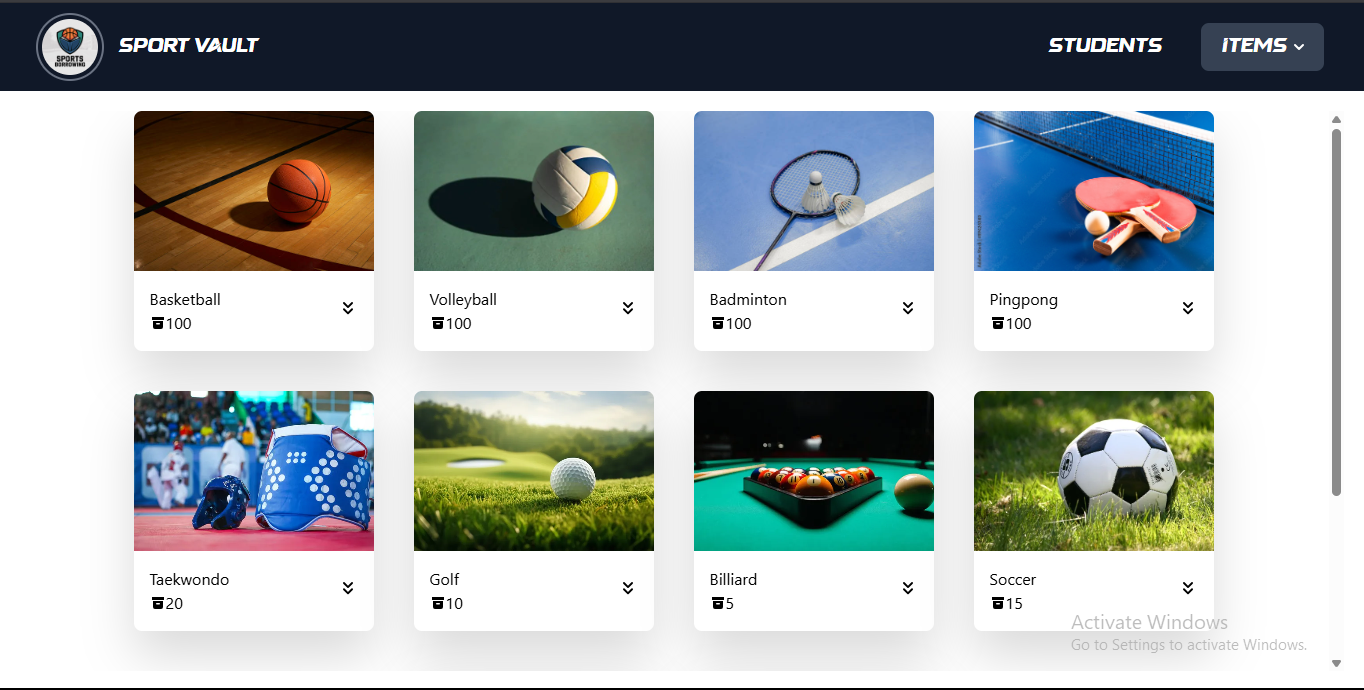
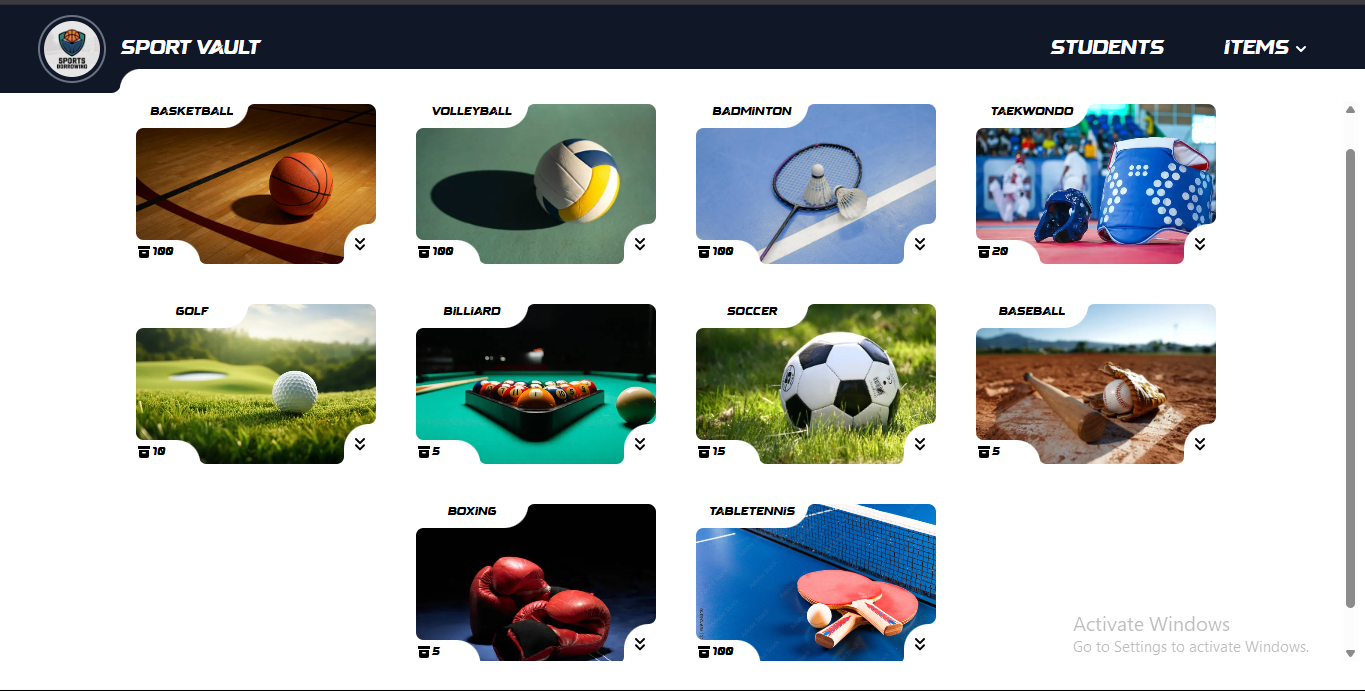
Adding Designs

diff --git a/src/components/itemPlacard.jsx b/src/components/itemPlacard.jsx
@@ -1,4 +1,6 @@
+import '../css/invertedDesign.css'
 import { useEffect, useState } from "react";
+import '../css/fonts.css'
 
 function ItemPlacard(){
     const [items, setItems] = useState([]);
@@ -24,29 +26,25 @@ function ItemPlacard(){
 
 
     return(
-        <div className="flex gap-10 flex-wrap justify-center max-h-[35rem] overflow-y-auto">
+        <div style={{ fontFamily: 'Sakana' }} className="p-10 text-xs flex gap-10 flex-wrap justify-center max-h-[35rem] overflow-y-auto">
             {items.map((item) => (
-                <div key={item} className="flex flex-col max-w-[15rem] max-h-[30rem] bg-white rounded-lg drop-shadow-2xl">
-                    <div className="h-[10rem] w-[15rem]"> 
+                <div key={item} className="transition duration-500 hover:scale-125 flex flex-col max-w-[15rem] max-h-[30rem] rounded-lg">
+                    <div className="h-[10rem] w-[15rem] relative"> 
+                        <div className="upperShape absolute w-[7rem] h-6 bg-white text-center">{item.itemname}</div>
                         <img src={`http://localhost:5000/images/${item.image}`} alt="" className="rounded-t-lg object-cover h-full w-full" />
-                    </div>
-                    <div className="p-4 flex items-center justify-between">
-                        <div>
-                            <p>{item.itemname}</p>
-                            <p className="flex items-center">
-                                <svg xmlns="http://www.w3.org/2000/svg" viewBox="0 0 16 16" fill="currentColor" className="size-4">
-                                    <path d="M3 2a1 1 0 0 0-1 1v1a1 1 0 0 0 1 1h10a1 1 0 0 0 1-1V3a1 1 0 0 0-1-1H3Z" />
-                                    <path fillRule="evenodd" d="M3 6h10v6a2 2 0 0 1-2 2H5a2 2 0 0 1-2-2V6Zm3 2.75A.75.75 0 0 1 6.75 8h2.5a.75.75 0 0 1 0 1.5h-2.5A.75.75 0 0 1 6 8.75Z" clipRule="evenodd" />
-                                </svg>
-                                {item.stocks}</p>
-                        </div>
-                        <div>
+                        <div className="lowerRightShape absolute w-[2rem] h-10 bg-white text-center right-0 bottom-0 items-center flex justify-center">
                             <button className="">
                                 <svg xmlns="http://www.w3.org/2000/svg" viewBox="0 0 16 16" fill="currentColor" className="size-5">
                                     <path fillRule="evenodd" d="M7.47 12.78a.75.75 0 0 0 1.06 0l3.25-3.25a.75.75 0 0 0-1.06-1.06L8 11.19 5.28 8.47a.75.75 0 0 0-1.06 1.06l3.25 3.25ZM4.22 4.53l3.25 3.25a.75.75 0 0 0 1.06 0l3.25-3.25a.75.75 0 0 0-1.06-1.06L8 6.19 5.28 3.47a.75.75 0 0 0-1.06 1.06Z" clipRule="evenodd" />
                                 </svg>
                             </button>
                         </div>
+                        <div className="lowerLeftShape absolute w-[4rem] h-6 bg-white text-center flex items-center bottom-0">
+                            <svg xmlns="http://www.w3.org/2000/svg" viewBox="0 0 16 16" fill="currentColor" className="size-4 z-50">
+                                <path d="M3 2a1 1 0 0 0-1 1v1a1 1 0 0 0 1 1h10a1 1 0 0 0 1-1V3a1 1 0 0 0-1-1H3Z" />
+                                <path fillRule="evenodd" d="M3 6h10v6a2 2 0 0 1-2 2H5a2 2 0 0 1-2-2V6Zm3 2.75A.75.75 0 0 1 6.75 8h2.5a.75.75 0 0 1 0 1.5h-2.5A.75.75 0 0 1 6 8.75Z" clipRule="evenodd" />
+                            </svg>
+                            {item.stocks}</div>
                     </div>
                 </div>
             ))}

diff --git a/src/css/invertedDesign.css b/src/css/invertedDesign.css
@@ -1,0 +1,89 @@
+.upperShape{
+    border-bottom-right-radius: 50px;
+}
+.upperShape::before{
+    content: "";
+    position: absolute;
+
+    background: transparent;
+    bottom: -15px;
+    height: 15px;
+    width: 15px;
+    left: 0px;
+    border-radius: 30px;
+
+    box-shadow: -8px -8px 0 0 white;
+}
+.upperShape::after{
+    content: "";
+    position: absolute;
+
+    background: transparent;
+    top: 0px;
+    height: 15px;
+    width: 15px;
+    right: -14px;
+    border-radius: 30px;
+
+    box-shadow: -8px -8px 0 0 white;
+}
+
+.lowerRightShape{
+    border-top-left-radius: 25px;
+}
+.lowerRightShape::before{
+    content: "";
+    position: absolute;
+
+    background: transparent;
+    bottom: 0px;
+    height: 15px;
+    width: 15px;
+    left: -15px;
+    border-radius: 30px;
+
+    box-shadow: 8px 8px 0 0 white;
+}
+.lowerRightShape::after{
+    content: "";
+    position: absolute;
+
+    background: transparent;
+    top: -15px;
+    height: 15px;
+    width: 15px;
+    right: 0px;
+    border-radius: 30px;
+
+    box-shadow: 7px 7px 0 0 white;
+}
+
+.lowerLeftShape{
+    border-top-right-radius: 50px;
+}
+.lowerLeftShape::before{
+    content: "";
+    position: absolute;
+
+    background: transparent;
+    top: -15px;
+    height: 15px;
+    width: 15px;
+    left: 0px;
+    border-radius: 30px;
+
+    box-shadow: -8px 8px 0 0 white;
+}
+.lowerLeftShape::after{
+    content: "";
+    position: absolute;
+
+    background: transparent;
+    bottom: 0px;
+    height: 15px;
+    width: 15px;
+    right: -14px;
+    border-radius: 30px;
+
+    box-shadow: -8px 8px 0 0 white;
+}

diff --git a/src/components/navBar.jsx b/src/components/navBar.jsx
@@ -1,6 +1,7 @@
 import { useState } from "react";
 import Logo from '../assets/logo/sportsBorrowingSystem.jpeg'
 import '../css/fonts.css'
+import '../css/navBarInvertedDesign.css'
 
 function NavBar({ onToggleStudentTable, onToggleItemTable, onToggleItemPlacard }) {
   const [showDropdown, setShowDropdown] = useState(false);
@@ -11,13 +12,14 @@ function NavBar({ onToggleStudentTable, onToggleItemTable, onToggleItemPlacard }
             <img className="h-[4rem] p-1 rounded-full ring-2 ring-gray-300 dark:ring-gray-500" src={Logo} alt="Bordered avatar"/>
             <p>SPORT VAULT</p>
         </div>
+        <div className="projdiv absolute w-full h-6 bg-white text-center bottom-0 left-30"></div>
        
       <div className="space-x-10 flex items-center relative group">
         <button onClick={onToggleStudentTable} className="font-medium hover:text-sky-300">Students</button>
         <button
           onClick={() => setShowDropdown(prev => !prev)}
           onMouseEnter={() => setShowDropdown(prev => !prev)}
-          className="text-white bg-gray-700 hover:bg-gray-800 focus:ring-4 focus:outline-none focus:ring-gray-300 font-medium rounded-lg px-5 py-2.5 text-center inline-flex items-center"
+          className="text-white font-medium rounded-lg px-5 py-2.5 text-center inline-flex items-center"
         >
           Items
           <svg className="w-2.5 h-2.5 ml-2" xmlns="http://www.w3.org/2000/svg" fill="none" viewBox="0 0 10 6">

diff --git a/src/App.jsx b/src/App.jsx
@@ -37,20 +37,22 @@ function App() {
 
   return (
     <>
+    <div>
       <NavBar       
                             // you may put two use state in one props by wrapping {} them and add ; at the end
           onToggleItemTable={() => {setStudentTable(false); setShowItemsTable(true); setShowItemsPlacard(false);}}
           onToggleStudentTable={() => {setStudentTable(true); setShowItemsTable(false); setShowItemsPlacard(false);}}
           onToggleItemPlacard={() => {setStudentTable(false); setShowItemsTable(false); setShowItemsPlacard(true);}}
         />
+    </div>
 
       {/* ITEM PLACARD */}
-      <div className='m-5 flex flex-wrap'>
+      <div className='m-2 flex flex-wrap'>
         {showItemsPlacar && !showItemsTable && !showStudentTable && <ItemPlacard/>}
       </div>
 
       {/* STUDENT TABLE */}
-      <div className='m-2'>
+      <div className='m-2 pt-10'>
           {showStudentTable && !showItemsTable && !showItemsPlacar && <StudentsTable 
             onToggleStudentReg={() => setShowStudentRegistration(prev => !prev)} 
             refreshSignal={refreshStudents} 
@@ -62,7 +64,7 @@ function App() {
       </div>
 
       {/* ITEM TABLE */}
-      <div className='m-5'>
+      <div className='ml-5 mr-5'>
         {showItemsTable && !showStudentTable && !showItemsPlacar && <ItemsTable 
           onToogleAddItem={() => setShowAddItems(prev => !prev)}
           refreshSignal={refereshItems}

diff --git a/src/css/navBarInvertedDesign.css b/src/css/navBarInvertedDesign.css
@@ -1,0 +1,23 @@
+.projdiv {
+    position: absolute; /* Add position relative so the pseudo element will origin off this with position absolute */
+    /* border-radius: 25px;            //before */
+    /* border-top-left-radius: 50px; */
+    border-top-left-radius: 20px;
+  }
+  .projdiv::before {
+    content: "";
+    position: absolute;
+    
+    background-color: transparent;
+    top: 4px;
+    height: 20px;
+    width: 20px;
+    left: -19px;
+    border-radius: 30px;
+  
+    /* this is where the magic begins */
+    /* box-shadow: 0 -25px 0 0 #001f3f; //this is before we you need to assign another color before assigning to similar color of the div */
+  
+    box-shadow: 10px 10px 0 0 white;
+  
+  }

diff --git a/README.md b/README.md
@@ -4,7 +4,6 @@ A fullstack web development project allowing admin to track the borrowing histor
 
 <img src="demo/Menu.png" alt="Registration Success" height="auto">
 
-
 ## Student Registration
  
 <div style="display: flex; flex-direction: row; gap: 10px;">
@@ -12,8 +11,8 @@ A fullstack web development project allowing admin to track the borrowing histor
   <img src="demo/registrationFailed.png" alt="Registration Failed" width="200" height="200">
 </div>
 
-
 ## Listing Items and Populating Table
+
 <div style="display: flex; flex-direction: row; gap: 10px;">
   <img src="demo/Listing.png" alt="Registration Success" width="400" height="200">
   <img src="demo/ItemsTable.png" alt="Registration Failed" width="400" height="200">
